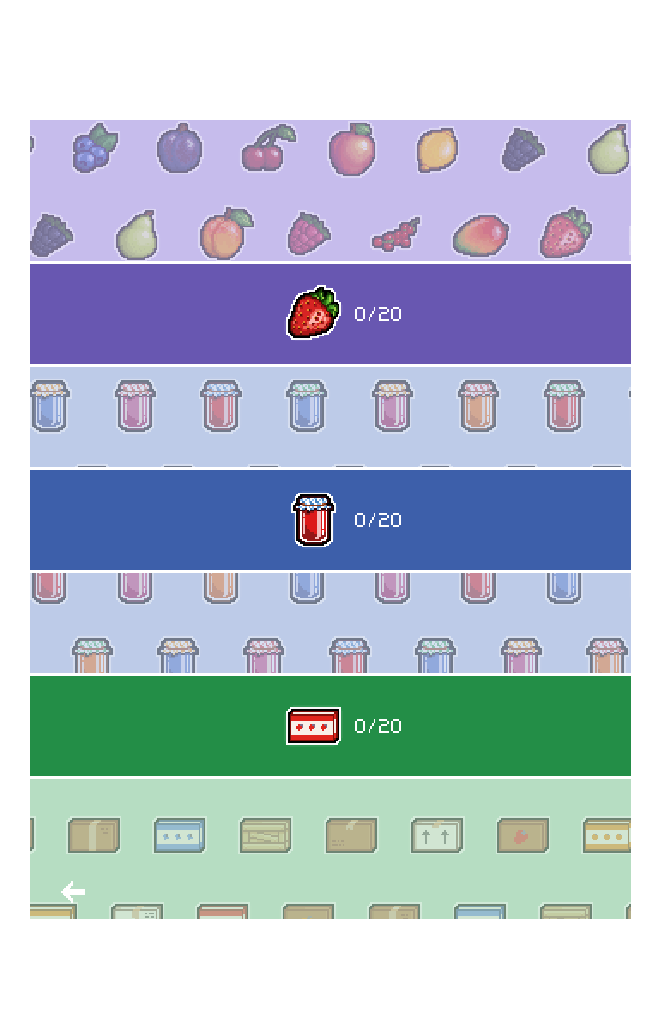
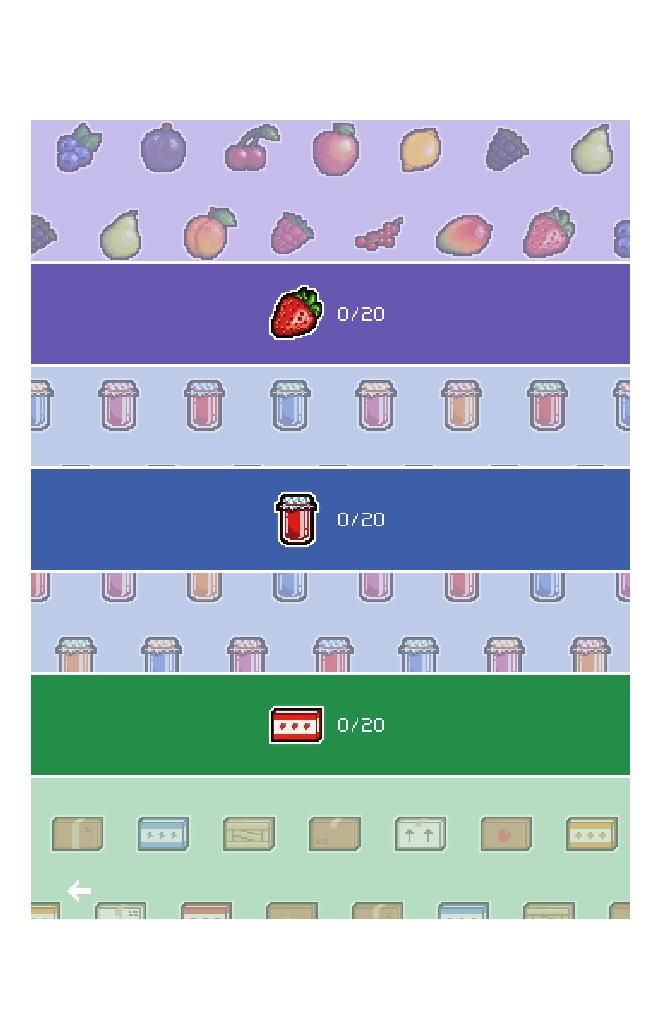
Better jam

diff --git a/css/style.css b/css/style.css
@@ -334,7 +334,22 @@ section
 #jam-imgs .slide-img:nth-child(1)
 {
     background-image: url("../imgs/work/jam/jam_1.gif");
-    opacity: 1
+    opacity: 1;
+}
+
+#jam-imgs .slide-img:nth-child(2)
+{
+    background-image: url("../imgs/work/jam/jam_2.png");
+}
+
+#jam-imgs .slide-img:nth-child(3)
+{
+    background-image: url("../imgs/work/jam/jam_3.png");
+}
+
+#jam-imgs .slide-img:nth-child(4)
+{
+    background-image: url("../imgs/work/jam/jam_4.png");
 }
 
 .work-arrows-container

diff --git a/index.html b/index.html
@@ -169,6 +169,9 @@
             <div class="device-img"></div>
             <div id="jam-imgs" class="slide-img-container">
               <div class="slide-img"></div>
+              <div class="slide-img"></div>
+              <div class="slide-img"></div>
+              <div class="slide-img"></div>
             </div>
             <div class="device-bg tablet-bg"></div>
             <div class="work-arrows-container">

diff --git a/js/main.js b/js/main.js
@@ -63,7 +63,6 @@ function setup()
 
     $(".work-text-container").each(function()
     {
-        //console.log(window.innerHeight, "calc(50% -" + $(this).height(), (window.innerHeight - $(this).height()) / 2 + ")");
         $(this).css("top", "calc(50% -" + ((window.innerHeight - $(this).height()) / 2) + ")");
     });
 
